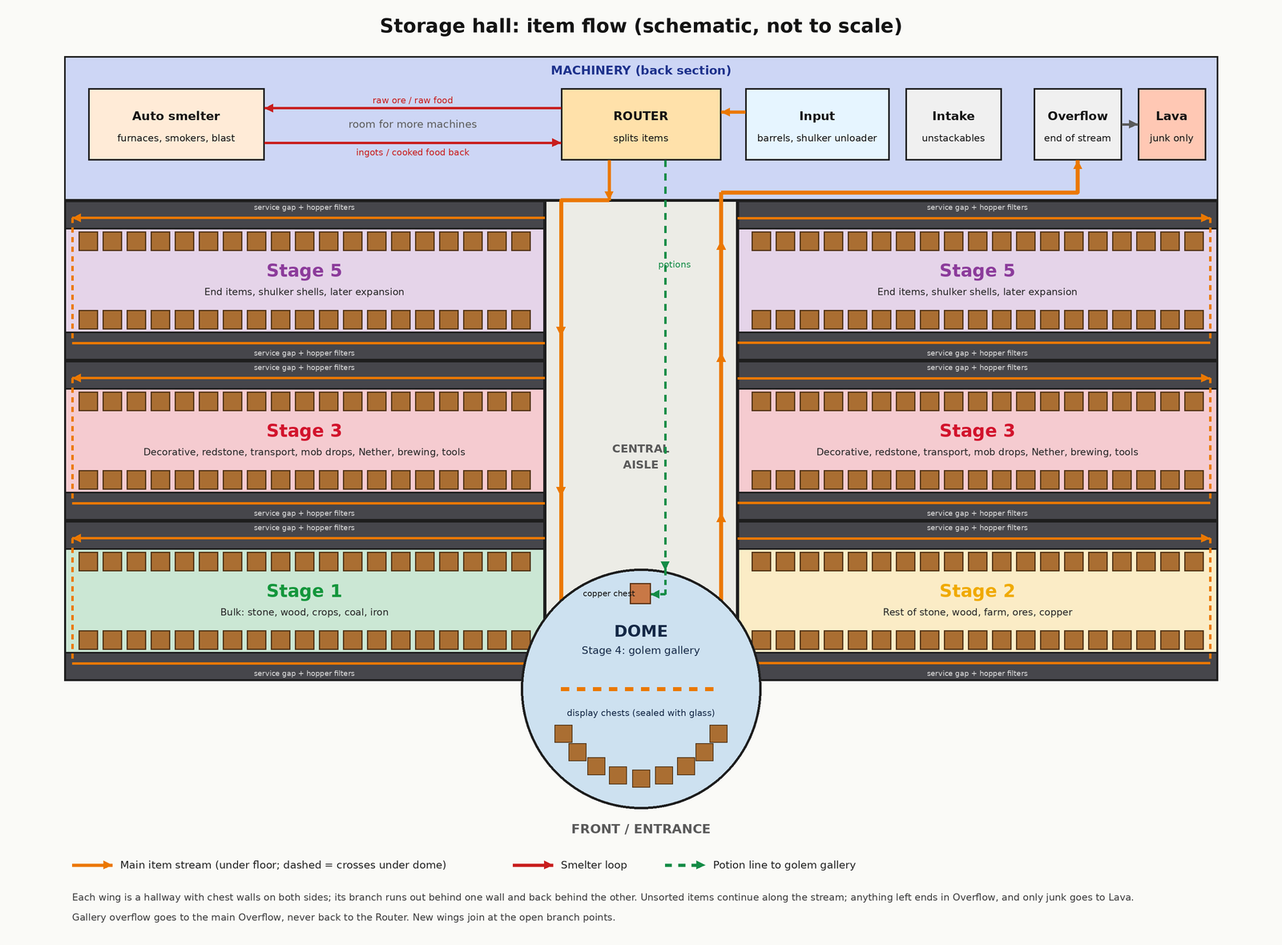
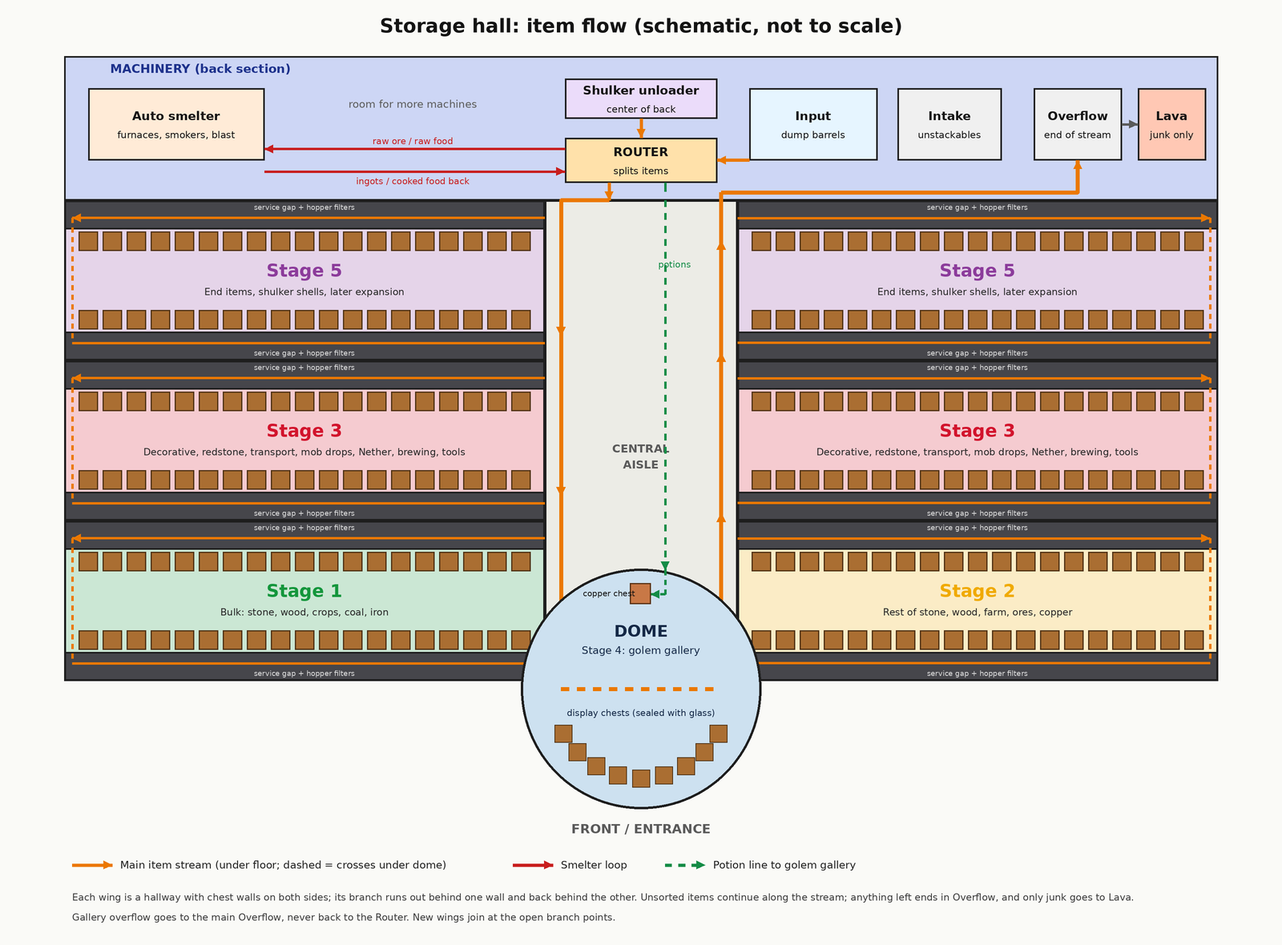
Storage: hall diagrams, two-sided wings, centered shulker unloader

diff --git a/tools/storage_hall_flow.py b/tools/storage_hall_flow.py
@@ -1,7 +1,8 @@
 """Draw the storage hall item-flow diagram (assets/storage-hall-flow.png).
 
-Schematic of Jeffrey's hall layout (plans/storage-layout.md): router and input in
-Machinery, U-shaped under-floor item stream, smelter loop, potion line to the
+Schematic of Jeffrey's hall layout (plans/storage-layout.md): shulker unloader at
+the center of Machinery feeding the router below it, dump barrels to the right,
+smelter loop on the left, U-shaped under-floor item stream, potion line to the
 golem gallery. Each wing is a hallway with a chest wall on both sides,
 each backed by its own service gap. Not to scale. Needs Pillow and the DejaVu fonts.
 Run: python3 tools/storage_hall_flow.py
@@ -10,7 +11,6 @@ from PIL import Image, ImageDraw, ImageFont
 import math, os
 OUT=os.path.join(os.path.dirname(os.path.abspath(__file__)),'..','assets','storage-hall-flow.png')
 S=2; W,H=1600,1180
-im=Image.new('RGB',(W*S,H*S),(250,250,247)); d=ImageDraw.Draw(im)
 im=Image.new('RGB',(W*S,H*S),(250,250,247)); d=ImageDraw.Draw(im)
 def f(sz,b=True): return ImageFont.truetype('/usr/share/fonts/truetype/dejavu/DejaVuSans-Bold.ttf' if b else '/usr/share/fonts/truetype/dejavu/DejaVuSans.ttf',int(sz*S))
 def rect(x0,y0,x1,y1,fill,ol=(30,30,30),w=2): d.rectangle([x0*S,y0*S,x1*S,y1*S],fill=fill,outline=ol,width=int(w*S))
@@ -32,22 +32,23 @@ text(W/2,32,'Storage hall: item flow (schematic, not to scale)',24)
 # machinery band
 MY0,MY1=70,250
 rect(80,MY0,1520,MY1,(205,214,245))
-text(800,88,'MACHINERY (back section)',15,c=(30,50,140))
-def box(x0,x1,t,sub=None,fill=(255,255,255)):
-    rect(x0,110,x1,200,fill); text((x0+x1)/2,145 if sub else 155,t,15)
-    if sub: text((x0+x1)/2,172,sub,12,False)
+text(250,86,'MACHINERY (back section)',15,c=(30,50,140))
+def box(x0,x1,t,sub=None,fill=(255,255,255),y0=110,y1=200):
+    rect(x0,y0,x1,y1,fill); m=(y0+y1)/2
+    text((x0+x1)/2,m-10 if sub else m,t,15)
+    if sub: text((x0+x1)/2,m+13,sub,12,False)
 box(110,330,'Auto smelter','furnaces, smokers, blast',fill=(255,235,215))
-box(700,900,'ROUTER','splits items',fill=(255,225,170))
-box(930,1110,'Input','barrels, shulker unloader',fill=(230,245,255))
-box(1130,1250,'Intake','unstackables',fill=(240,240,240))
+box(705,895,'Shulker unloader','center of back',fill=(235,220,250),y0=98,y1=148)
+box(705,895,'ROUTER','splits items',fill=(255,225,170),y0=172,y1=228)
+box(935,1095,'Input','dump barrels',fill=(230,245,255))
+box(1120,1250,'Intake','unstackables',fill=(240,240,240))
 box(1290,1400,'Overflow','end of stream',fill=(240,240,240))
 box(1420,1505,'Lava','junk only',fill=(255,200,180))
-text(515,155,'room for more machines',13,False,GREY)
-# input->router
-arrow([(930,140),(900,140)],ORANGE)
-# router <-> smelter
-arrow([(700,135),(330,135)],RED,3); text(515,125,'raw ore / raw food',11,False,RED)
-arrow([(330,178),(700,178)],RED,3); text(515,190,'ingots / cooked food back',11,False,RED)
+arrow([(800,148),(800,172)],ORANGE)
+arrow([(935,200),(895,200)],ORANGE)
+arrow([(705,186),(330,186)],RED,3); text(515,176,'raw ore / raw food',11,False,RED)
+arrow([(330,214),(705,214)],RED,3); text(515,226,'ingots / cooked food back',11,False,RED)
+text(515,130,'room for more machines',13,False,GREY)
 # wings
 LX0,LX1,AX0,AX1,RX0,RX1=80,680,680,920,920,1520
 bands=[(250,450,'Stage 5','End items, shulker shells, later expansion',(140,60,155),(140,60,155)),
@@ -81,7 +82,7 @@ for y0,y1,l,s,c in right_bands: band(RX0,RX1,y0,y1,l,s,c,'R')
 rect(AX0,250,AX1,850,(236,236,230))
 text(800,560,'CENTRAL',14,c=GREY); text(800,580,'AISLE',14,c=GREY)
 # trunk U: router down left, across under dome, up right to overflow
-arrow([(760,200),(760,250)],ORANGE)
+arrow([(760,228),(760,250)],ORANGE)
 line([(760,250),(700,250),(700,860)],ORANGE,5)
 line([(900,860),(900,240)],ORANGE,5)
 arrow([(900,240),(1345,240),(1345,200)],ORANGE,5)
@@ -89,7 +90,7 @@ for y in (420,620,820): head(700,y-20,700,y,ORANGE,13)
 for y in (640,440,300): head(900,y+20,900,y,ORANGE,13)
 arrow([(1400,155),(1420,155)],GREY,3)
 # golem line
-arrow([(830,200),(830,250),(830,712)],GREEN,3,dash=8)
+arrow([(830,228),(830,250),(830,712)],GREEN,3,dash=8)
 text(842,690,'',1)
 # dome
 cx,cy,r=800,860,150

diff --git a/plans/storage-layout.md b/plans/storage-layout.md
@@ -21,7 +21,7 @@ Decided: **hopper filters fed by an item stream do the primary sorting** (Bedroc
 *Jeffrey's own layout, redrawn from his sketch. Zones are named by the stage that fills them. Sizes and the architecture are his; nothing here adds dimensions.*
 
 **Zones, back to front**
-- **Machinery:** the full width of the back. Input barrels, shulker unloader, router, intake, auto smelter, overflow, and lava, with room for more machines.
+- **Machinery:** the full width of the back. Left to right: auto smelter (with room for more machines); the **shulker unloader at the center, at the head of the aisle**, with the **router directly below it**; then the dump-barrel input, intake, overflow, and lava on the right.
 - **Central aisle:** runs from Machinery to the Dome.
 - **Stage 5 wings:** the back band on both sides of the aisle. Both are one stage.
 - **Stage 3 bands:** the middle band on both sides.
@@ -37,11 +37,11 @@ Decided: **hopper filters fed by an item stream do the primary sorting** (Bedroc
 *Flow schematic drawn on Jeffrey's layout. Not to scale; it shows where items go, not sizes. Generator: [tools/storage_hall_flow.py](../tools/storage_hall_flow.py).*
 
 **How items move**
-1. **In (Machinery, back):** you dump into the **input barrels**, and the **shulker unloader** empties boxes into the same line. Both feed the **router** next door. The router splits off unstackables into the **intake** chest before any filter (rule 1).
-2. **Smelter loop (Machinery):** the router sends raw ore and raw food to the **auto smelter** (blast furnaces and smokers). Ingots and cooked food go back to the router and get sorted like any other item. There's room in Machinery for more machines.
+1. **In (Machinery, back center):** the **shulker unloader** sits at the center of Machinery, at the head of the aisle, and feeds **straight down into the router** directly below it. The **dump-barrel input** sits to the right of the router and feeds it from the side. Every item, from boxes or barrels, enters through the router. The router splits off unstackables into the **intake** chest before any filter (rule 1).
+2. **Smelter loop (Machinery, left of the router):** the router sends raw ore and raw food to the **auto smelter** (blast furnaces and smokers). Ingots and cooked food go back to the router and get sorted like any other item. There's room in Machinery for more machines.
 3. **Main stream, a U under the floor:** from the router the stream runs **down the left side of the central aisle**, past the branch points for the **Stage 5, Stage 3 and Stage 1** wings on the left. It **crosses under the Dome**, then runs **up the right side** past the **Stage 2, Stage 3 and Stage 5** wings on the right.
 4. **Each wing is a hallway with a chest wall on both sides.** Each wall's browse side faces the hallway, and each wall is backed by its **own service gap** holding that wall's **hopper filters**. The wing's **branch loop** leaves the stream, runs out along the service gap behind one wall, crosses under the hallway at the outer end (dashed in the diagram), and comes back along the service gap behind the other wall to rejoin the stream. Anything neither wall filters rides the loop back onto the stream.
-5. **End of the stream (Machinery, back right):** whatever is left lands in the **overflow**. Only junk goes on to the **lava** behind it. The lava stays at the back, away from the Dome and the wood-heavy wings (rule 5).
+5. **End of the stream (Machinery, right side):** the **intake** (unstackables from the router), the **overflow**, and the **lava** sit on the right of Machinery. whatever is left lands in the **overflow**. Only junk goes on to the **lava** behind it. The lava stays at the back, away from the Dome and the wood-heavy wings (rule 5).
 6. **Potion line (dashed):** the router's potion filter and tipped-arrow slice send those items along a separate line up the aisle to the **copper chest in the Dome**. The golem sorts them into the display chests, which sit in a ring sealed behind glass. **Gallery overflow goes to the main overflow, never back to the router** (rule 6).
 
 ### What goes in each zone
@@ -50,7 +50,7 @@ Counts are from [§3](#3-item-by-item-chest-allocation). Per-stage tables with a
 
 | Zone | Stage | Groups and items | DC-eq | Slices | Chest walls |
 | --- | --- | --- | --- | --- | --- |
-| Machinery | 1, 2, 3, 5 | Input barrels + router, non-stackable intake 1 DC, main overflow 2 DC (Stage 1); auto smelter (Stage 2); lava (Stage 3); shulker unloader + the group 15 shulker-box chests, 2 SC (Stage 5) | 4 | 0 | — |
+| Machinery | 1, 2, 3, 5 | Router at the head of the aisle, dump barrels to its right, non-stackable intake 1 DC and main overflow 2 DC on the right (Stage 1); auto smelter on the left (Stage 2); lava on the right, behind the overflow (Stage 3); shulker unloader at the center, directly above the router, plus the group 15 shulker-box chests, 2 SC, beside it (Stage 5) | 4 | 0 | — |
 | Stage 1 wing | 1 | Bulk: cobblestone, cobbled deepslate, dirt, stone, gravel, sand, main logs, main planks, wheat, wheat seeds, carrots, potatoes, sugar cane, coal, iron ingots | 26 | 15 | 2 |
 | Stage 2 wing | 2 | Rest of groups 1–5 (stone family, wood, farming & food, ores & metals, copper), plus glass, torches, item frames | 31.5 | 39 | 2 |
 | Stage 3 band, left | 3 | 6 Decorative (rest), 7 Redstone, 8 Transport | 21.5 | 8 | 2 |
@@ -91,15 +91,18 @@ The flow diagram lists the same Stage 3 contents on both bands. The left/right s
 
 ### Router and input location (decided: back, by the router)
 
-Jeffrey's flow puts the **input barrels, shulker unloader, intake and router together in Machinery** (option (a)). The U-shaped stream solves the problem option (a) had before: the stream starts at the back, comes forward down one side, and goes back on the other, so it ends at the overflow and lava in the back without a loop and without lava near the Dome.
+Jeffrey's layout puts all input in Machinery (option (a)): the **shulker unloader at the center, directly above the router** at the head of the aisle, and the **dump barrels just right of the router**. The intake is on the right with the overflow and lava, and the smelter is on the left. The U-shaped stream solves the problem option (a) had before: the stream starts at the back, comes forward down one side, and goes back on the other, so it ends at the overflow and lava in the back without a loop and without lava near the Dome.
 
 | | Back, by the router (chosen) |
 | --- | --- |
 | Dumping | A walk to the back of the hall |
 | Stream | Router → U → overflow → lava, all ending at the back. Rules 1, 2, 5, 8 hold. |
-| Smelter loop | Short: the smelter is next to the router |
+| Smelter loop | Short: the smelter is just left of the router |
+| Shulker unloader | Feeds straight down into the router; no separate input line |
 | Golem gallery feed | One potion line up the aisle to the Dome's copper chest |
 | Farm lines | Join at the router in the back (rule 2) |
+
+**Stage 1 must leave the unloader's spot free.** The unloader isn't built until Stage 5, but it sits directly above the router. So in Stage 1, keep the space above the router clear and leave the router's top input open (capped) so the unloader can drop in later without rebuilding the router (rule 8).
 
 **Optional later: a front dump point at the Dome.** If the walk to the back gets old, add a dump chest or barrel near the entrance, outside the gallery seal. It needs its own line back to the router at the start of the stream, not a drop into the U partway along it (rule 2). It's an add-on, not part of any stage.
 
@@ -114,7 +117,7 @@ Jeffrey's flow puts the **input barrels, shulker unloader, intake and router tog
 
 ```mermaid
 flowchart LR
-    IN[Input: dump barrels + shulker unloader] --> NS{Non-stackable split}
+    IN[Input: shulker unloader above + dump barrels beside] --> NS{Non-stackable split}
     NS -->|tools, armor, books, boxes| MAN[Manual chests]
     NS -->|potions| GG[Golem gallery copper chest]
     NS -->|stackables| R[Router / item stream]
@@ -129,7 +132,7 @@ flowchart LR
 ```
 
 ### Adjacency rules
-1. **Input sits next to the router.** The dump barrels and the shulker unloader feed one short line into the router. The non-stackable split comes first, before any filter.
+1. **Input sits next to the router.** In Jeffrey's layout the shulker unloader feeds straight down into the router from above, and the dump barrels feed it from the right. The non-stackable split comes first, before any filter.
 2. **The router feeds the start of the item stream.** Farm lines also join at the start of the stream, not halfway along it.
 3. **Filters sit directly behind the chest wall they fill.** Each filter slice feeds its own chest(s) straight through the wall, with the service space behind it.
 4. **Service access runs behind every chest wall.** Keep a 3-block gap with a walkable route, so filters can be fixed without touching the front.
@@ -176,7 +179,7 @@ flowchart LR
 | 12 | **Nether** | Netherrack, blackstone, basalt, soul sand/soil, glowstone, nether bricks | Hoppers | Slices (bulk for netherrack if you need it) |
 | 13 | **End** | End stone, purpur, chorus fruit, shulker shells | Hoppers | Slices |
 | 14 | **Tools, armor & enchanting** | Tools, armor, enchanted books (all unstackable), plus books and bookshelves | **Manual** (unstackables come out at the non-stackable split) | A few labeled chests, near the workshop/enchanting area |
-| 15 | **Shulker boxes** | Empty and full boxes | **Manual** (the unloader returns empty boxes) | A box chest at the input |
+| 15 | **Shulker boxes** | Empty and full boxes | **Manual** (the unloader returns empty boxes) | A box chest beside the unloader (Machinery, center) |
 | 16 | **Misc / new items** | Anything without a slice yet, for weekly review | Overflow chest | One chest. Add a slice for anything that keeps showing up. |
 
 **Rules of thumb**
@@ -498,7 +501,7 @@ Items from recent drops were checked against the Minecraft Wiki (2026-10-07): th
 | 2 | [Phase 5](phase-5-infrastructure.md) | Stage 2 wing, plus the smelter in Machinery | The rest of groups 1–5, plus the smelter loop | 31.5 DC-eq, 39 slices |
 | 3 | Phase 5 | Both Stage 3 bands, plus the lava in Machinery | Groups 6–10, 12, 14, plus the lava disposal | 42.5 DC-eq, 30 slices |
 | 4 | Phase 5 | Dome | Golem gallery showpiece (group 11) | 6 DC-eq (11 gallery chests + spares), 0 chest-wall slices |
-| 5 | After the End, then ongoing | Both Stage 5 wings (shulker unloader in Machinery) | End group, shulker unloader, then all expansion | 4 DC-eq + 3 slices, then as needed (golem module 2 adds 5.5 DC-eq) |
+| 5 | After the End, then ongoing | Both Stage 5 wings (shulker unloader at the center of Machinery, above the router) | End group, shulker unloader, then all expansion | 4 DC-eq + 3 slices, then as needed (golem module 2 adds 5.5 DC-eq) |
 
 Running total once Stage 5's End group and shulker chests are in: **113 DC-eq, 87 filter slices.** Everything after that is Stage 5 expansion.
 
@@ -558,7 +561,7 @@ Running total once Stage 5's End group and shulker chests are in: **113 DC-eq, 8
 
 ### Stage 5: End group, shulker unloader, and expansion (both Stage 5 wings)
 - **Automated (3 slices):** end stone, purpur blocks, shulker shells.
-- **Shulker unloader (Machinery, beside the input barrels):** feeds the input line and returns empty boxes to the group 15 chest next to it.
+- **Shulker unloader (center of Machinery, at the head of the aisle):** sits directly above the router and feeds straight down into it. Empty boxes go to the group 15 chest beside it. Stage 1 leaves this spot and the router's top input free.
 - **Chests added:** 4 DC-eq: group 13, plus 2 SC for group 15.
 - **Then expansion, ongoing:**
   - Add slices at the open end. Grow the **★** items first, and promote mixed-chest items that keep filling the overflow.

diff --git a/plans/storage-and-sorting.md b/plans/storage-and-sorting.md
@@ -3,7 +3,7 @@
 **Goal:** A highly automated item sorter for the real base. **Hopper filters fed by a water/ice item stream (a Bedrock chest hall) do the primary sorting**, and **copper golems are the showpiece**: a glass-fronted golem gallery at the front of the hall where a few waxed golems sort a small set of everyday items (potions and tipped arrows) into display chests you can watch.
 **Role change (2026-10-07):** Jeffrey asked to make the golems "a visual thing in the front of the hall, not necessarily the primary sorting mechanism". The golem research below is still valid; it now applies to the gallery.
 **Status:** ⬜ Not started
-**Hall layout:** [Jeffrey's sketch](storage-layout.md#hall-layout-jeffreys-sketch) and [item flow](storage-layout.md#item-flow): input, router, smelter, overflow and lava in Machinery at the back; a U-shaped under-floor stream down one side of the central aisle, under the Dome (golem gallery) at the entrance, and back up the other side; each wing a hallway with chest walls on both sides.
+**Hall layout:** [Jeffrey's sketch](storage-layout.md#hall-layout-jeffreys-sketch) and [item flow](storage-layout.md#item-flow): shulker unloader at the center of Machinery feeding the router below it, dump barrels to the right, smelter on the left, intake/overflow/lava on the right; a U-shaped under-floor stream down one side of the central aisle, under the Dome (golem gallery) at the entrance, and back up the other side; each wing a hallway with chest walls on both sides.
 **Stages:** [one table per stage](storage-stages.md).
 **Grouping:** see [storage-layout.md](storage-layout.md) for functional adjacency rules, the hard technical constraints, and the item groups for the chest walls. The building itself is a custom build Jeffrey designs; no shape or size is prescribed.
 **Always loaded:** the sorter and iron farm go in a Bedrock ticking area so they run with nobody nearby. See [Server config: ticking area](multiplayer-server.md#ticking-area-iron-farm-and-item-sorter) (mob spawning still needs a player nearby).
@@ -146,7 +146,9 @@ Jeffrey's ask: the item sorter also needs an **auto furnace**, a **shulker box a
 
 ### Shulker box auto unloader
 
-**What it does:** drop a full shulker box in, its contents get emptied into the sorter input, and the empty box comes back out.
+**What it does:** drop a full shulker box in, its contents get emptied into the sorter, and the empty box comes back out.
+
+**Where:** at the center of the back Machinery section, at the head of the aisle, feeding straight down into the router directly below it ([hall layout](storage-layout.md#item-flow)). The dump barrels are to the router's right.
 
 **Verified mechanics** ([Shulker Box](https://minecraft.wiki/w/Shulker_Box), [Dispenser](https://minecraft.wiki/w/Dispenser), [Hopper](https://minecraft.wiki/w/Hopper), [Tutorial: Hopper, special item filters](https://minecraft.wiki/w/Tutorial:Hopper#Potions,_books_and_shulker_boxes))
 - Hoppers can both put items into and pull items out of a placed shulker box.
@@ -216,7 +218,7 @@ Jeffrey's ask: the item sorter also needs an **auto furnace**, a **shulker box a
 | 2 | Stage 2 wing | The rest of groups 1–5 (39 slices), plus the smelter loop in Machinery ([auto furnace](#auto-furnace--smelter-array)) |
 | 3 | Both Stage 3 bands | Groups 6–10, 12, 14 (30 slices), plus the [lava disposal](#garbage-disposal-garbage-furnace) in Machinery |
 | 4 | Dome | Golem gallery showpiece (module 1) |
-| 5 | Both Stage 5 wings | End group, shulker boxes, the [shulker unloader](#shulker-box-auto-unloader), then all expansion (★ items, promoted mixed items, golem module 2 in the Dome) |
+| 5 | Both Stage 5 wings (unloader at the center of Machinery) | End group, shulker boxes, the [shulker unloader](#shulker-box-auto-unloader) above the router, then all expansion (★ items, promoted mixed items, golem module 2 in the Dome) |
 
 ## Materials (verified recipes only)
 

diff --git a/plans/storage-stages.md b/plans/storage-stages.md
@@ -32,7 +32,7 @@ Each stage below lists **only what that stage adds**, and which zone of the hall
 
 ## Summary by zone
 
-DC-eq here covers chests only; machines (router, smelter, lava, unloader) have no chest count. Input and router sit in Machinery by the router ([decided](storage-layout.md#router-and-input-location-decided-back-by-the-router)). Each wing is a hallway with a chest wall on **both** sides, each wall backed by its own service gap and filters ([item flow](storage-layout.md#item-flow)), so a wing's chests and slices split over two walls. The Stage 5 wings are two wings, so four walls.
+DC-eq here covers chests only; machines (router, smelter, lava, unloader) have no chest count. All input is in Machinery: the shulker unloader at the center feeds straight down into the router, and the dump barrels sit to its right ([decided](storage-layout.md#router-and-input-location-decided-back-by-the-router)). Each wing is a hallway with a chest wall on **both** sides, each wall backed by its own service gap and filters ([item flow](storage-layout.md#item-flow)), so a wing's chests and slices split over two walls. The Stage 5 wings are two wings, so four walls.
 
 | Zone | Stage(s) | DC-eq | Slices | Chest walls | DC-eq per wall | What sits there |
 | --- | --- | --- | --- | --- | --- | --- |
@@ -42,7 +42,7 @@ DC-eq here covers chests only; machines (router, smelter, lava, unloader) have n
 | Stage 3 band, right | 3 | 21 | 22 | 2 | 10.5 | Mob drops, brewing, Nether, tools/armor/enchanting |
 | Dome | 4 (+5) | 6 | 0 | — | — | Golem gallery module 1 + spares; module 2 later (Stage 5 timing) |
 | Stage 5 wings | 5 | 3 | 3 | 4 | 0.75 | End group; the rest is expansion room for ★ items and promoted mixed items |
-| Machinery | 1, 2, 3, 5 | 4 | 0 | — | — | Input barrels + router, intake, main overflow (Stage 1); smelter (Stage 2); lava (Stage 3); shulker unloader + box chests (Stage 5) |
+| Machinery | 1, 2, 3, 5 | 4 | 0 | — | — | Center: router at the head of the aisle, shulker unloader above it (Stage 5) + box chests. Right: dump barrels, intake, main overflow (Stage 1), lava (Stage 3). Left: smelter (Stage 2) |
 | **Total** | | **113** | **87** | | | |
 
 **Why Stage 0 isn't counted:** its 17 chests (and the test rig) are the temporary Phase 4 storage wall. Once a group's items get hall chests (Stages 1–5), the old group chest is free to reuse as one of that group's mixed or manual chests, so counting it would double-count. The test slice is a prototype in a test area. Golem module 2 and the other Stage 5 expansion come on top of the 113.
@@ -306,8 +306,8 @@ DC-eq here covers chests only; machines (router, smelter, lava, unloader) have n
 - **Stage adds:** 1 DC + 6 SC = **4 DC-eq**, **3 hopper slices**, then expansion
 - **Cumulative:** 113 DC-eq / 87 slices (the §3 grand total), then growing
 - **Phase:** After the End, then ongoing
-- **Zone:** Both Stage 5 wings; shulker unloader and box chests in Machinery beside the input; golem module 2 in the Dome
-- **Shulker unloader (Machinery, beside the input barrels):** feeds the input line and returns empty boxes to the group 15 chest next to it.
+- **Zone:** Both Stage 5 wings; shulker unloader at the center of Machinery, directly above the router, with the box chests beside it; golem module 2 in the Dome
+- **Shulker unloader (center of Machinery, at the head of the aisle):** sits directly above the router and feeds straight down into it. Empty boxes go to the group 15 chest beside it. Stage 1 leaves this spot and the router's top input free.
 - **Needs:**
   - End city trips for shulker shells; each box is 2 shulker shells + 1 chest.
   - A dispenser and a piston for the unloader.

diff --git a/plans/building-goals.md b/plans/building-goals.md
@@ -51,7 +51,7 @@ The showpiece home for the [item sorter](storage-and-sorting.md). A hopper chest
 
 **Status:** ⬜ Not started
 **Suggested timing:** Phase 4–5, alongside the storage [growth stages](storage-layout.md#4-growth-stages) 1–5 (gallery in the Dome = Stage 4)
-**Layout:** [Jeffrey's hall sketch](storage-layout.md#hall-layout-jeffreys-sketch): Machinery across the back, a central aisle, the Stage 1/2 wings at the front, Stage 3 bands in the middle, Stage 5 wings at the back, and the Dome (golem gallery) at the entrance. Each wing is a hallway with chest walls on both sides. [Item flow](storage-layout.md#item-flow): a U-shaped stream from the router in Machinery, under the Dome, and back to the overflow and lava. Per-stage contents: [storage-stages.md](storage-stages.md).
+**Layout:** [Jeffrey's hall sketch](storage-layout.md#hall-layout-jeffreys-sketch): Machinery across the back, a central aisle, the Stage 1/2 wings at the front, Stage 3 bands in the middle, Stage 5 wings at the back, and the Dome (golem gallery) at the entrance. Each wing is a hallway with chest walls on both sides. [Item flow](storage-layout.md#item-flow): the shulker unloader at the center of Machinery feeds the router below it, with dump barrels to its right; a U-shaped stream runs from the router, under the Dome, and back to the overflow and lava on the right. Per-stage contents: [storage-stages.md](storage-stages.md).
 **Location:** _not recorded yet_ (near the home base at spawn)
 
 **Key materials and features**

diff --git a/progress/tracker.md b/progress/tracker.md
@@ -55,7 +55,7 @@ See [plans/building-goals.md](../plans/building-goals.md).
 | | Storage sorter Stage 2: rest of groups 1–5 (39 slices, Stage 2 wing) + smelter loop running |
 | | Storage sorter Stage 3: groups 6–10, 12, 14 (30 slices, both Stage 3 bands) + lava disposal running |
 | | Storage sorter Stage 4: golem gallery showpiece running behind glass (Dome) |
-| | Storage sorter Stage 5: End group + shulker unloader running in the Stage 5 wings |
+| | Storage sorter Stage 5: End group running in the Stage 5 wings + shulker unloader feeding the router from the center of Machinery |
 | | Storage sorter Stage 5 expansion: ★ items grown into the Stage 5 wings; hall dressed as the Copper storage hall (ongoing) |
 | | Storage sorter add-on: auto furnace (blast furnaces + smokers) running off the sorter |
 | | Storage sorter add-on: lava garbage disposal taking junk + overflow |
